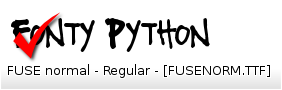
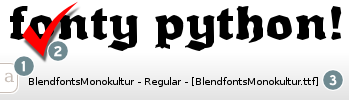
Help file update

diff --git a/fontypythonmodules/help/en/help.html b/fontypythonmodules/help/en/help.html
@@ -67,18 +67,25 @@
 			<li>
 			<h5>You have selected a Source (Pog or Folder) and a Target Pog</h5>
 			<IMG src="../common/fp_ticking.png" border="0">
-			<p>This will let you tick fonts and then store them in the target Pog.</p>
+			<p>This will let you tick fonts and then store them in the Target Pog.</p>
+			<h6>Areas of interest</h6>
+			<ol>
+				<li><strong>Character Map Button</strong> If you have <em>gucharmap</em> or <em>kfontview</em> installed, this button will show and when clicked will open one of those two apps to let you view the full character-set of the font. You can choose which character map viewer to use in the Settings.<p></p></li>
+				<li><strong>Tick Area</strong> Clicking anywhere on a font will either <em>tick</em> or <em>cross</em> it.<p>A <em>tick</em> means the font can be placed into a <em>Target Pog</em> &mdash; i.e. the one chosen in the right-hand panel.</p><p>A <em>cross</em> means the font will be removed from the <em>Source Pog (The one you are viewing at the moment)</em> &mdash; i.e. the Pog currently chosen on the left-panel.</p><p></p></li>
+				<li><strong>Font Info</strong> Here you will find the family and style and filename. When you use the filter to search, this is the text that is used.</li>
+			</ol>
 			<hr>
 			</li>
 			<li>
 			<h5>You have selected a Source Folder (or a Pog) <em>only</em></h5>
-			<p>This will not let you tick anything, you can only look.</p>
+			<IMG src="../common/fp_normal_item.png" border="0">
+			<p>This will not let you tick anything, you can only look. There is no visual difference.</p>
 			<hr>
 			</li>
 			<li>
 			<h5>You have selected a Source Pog <em>only</em></h5>
 			<IMG src="../common/fp_removing_a_font.png" border="0">
-			<p>This will let you cross-out fonts that you want to remove from the Pog you are looking at.</p>
+			<p>This will let you cross-out fonts that you want to remove from the Pog you are looking at now.</p>
 			<hr>
 			</li>
 			<li>
@@ -100,10 +107,9 @@
 			<td valign="top">
 				These icons indicate which are currently installed and which are not.
 				<ul>
-					<li>You cannot use an installed Pog as a target.</li>
-					<li>You choose a target Pog by clicking one (on the right).</li>
+					<li>You cannot use an installed Pog as a Target.</li>
+					<li>You choose a Target Pog by clicking one (on the right).</li>
 					<li>By holding <i>Ctrl</i> you can select many Pogs at once.</li>
-					<li>The "Clear Selection" button will clear your entire selection.</li>
 				</ul>
 			</td>
 		</tr>
@@ -130,7 +136,7 @@
 	<tr>
 		<TD valign="top"><IMG src="../common/fp8.png.cr.png" align="left" border="0"></td><td>
 	<h4>Pog actions.</h4>
-	<p>The buttons in this section all act upon the currently selected <strong>target</strong> Pog(s). You can variously delete, install, uninstall and zip the selected Pog(s). You can also create new Pogs from here.</p>
+	<p>The buttons in this section all act upon the currently selected <strong>Target</strong> Pog(s). You can variously delete, install, uninstall and zip the selected Pog(s). You can also create new Pogs from here.</p><p>The "Clear Selection" button will clear all the Pogs you have selected.</p>
 	</td></tr>
 	</table>
 	<p><A href="#TOP"><font size=-1>Go to top</font></A></p>

diff --git a/fontypythonmodules/gui_Right.py b/fontypythonmodules/gui_Right.py
@@ -16,7 +16,7 @@
 ##	along with Fonty Python.  If not, see <http://www.gnu.org/licenses/>.
 
 import wx
-#from wx.lib.buttons import ThemedGenBitmapTextButton
+
 ## Setup wxPython to access translations : enables the stock buttons.
 langid = wx.LANGUAGE_DEFAULT # Picks this up from $LANG
 mylocale = wx.Locale( langid )
@@ -40,8 +40,7 @@ class TargetPogChooser(wx.Panel):
 	def __init__(self, parent):
 		wx.Panel.__init__(self, parent, id = -1)	
 		
-		self.icon = wx.StaticBitmap\
-		(self, -1, wx.Bitmap(fpsys.mythingsdir + 'icon_target_16x16.png', wx.BITMAP_TYPE_PNG))
+		self.icon = wx.StaticBitmap( self, -1, wx.Bitmap(fpsys.mythingsdir + 'icon_target_16x16.png', wx.BITMAP_TYPE_PNG) )
 		self.textInfo = wx.StaticText(self, -1, _("Target Pogs"), style = wx.ALIGN_LEFT)
 		self.textInfo.SetFont(wx.Font(10, fpsys.DFAM, wx.NORMAL, wx.FONTWEIGHT_BOLD))
 		
@@ -59,10 +58,8 @@ class TargetPogChooser(wx.Panel):
 		## The "no pog" button
 		self.idnone = wx.NewId()
 		self.buttNoPog = wx.Button(self, label = _("Clear selection"), id = self.idnone)
-		#bmp=wx.Bitmap(fpsys.mythingsdir + 'font_segfault.png', wx.BITMAP_TYPE_PNG)
-		#self.buttNoPog = ThemedGenBitmapTextButton( self, -1, bmp, "XXXXXXXXXFind")
 
-		self.buttNoPog.SetToolTipString(_("Deselects any chosen pogs."))
+		self.buttNoPog.SetToolTipString(_("Deselects any chosen Pogs."))
 		## The buttons under the pog list
 		## Giving them all id numbers so my single handler can tell them apart.
 		self.idnew = wx.NewId()
@@ -91,10 +88,8 @@ class TargetPogChooser(wx.Panel):
 		self.sizer = wx.BoxSizer(wx.VERTICAL)		 
 		self.iconandtext = wx.BoxSizer(wx.HORIZONTAL)
 		self.iconandtext.Add(self.icon, 0, wx.TOP | wx.BOTTOM, border = 4)
-		#self.iconandtext.Add(self.textInfo, 1, wx.EXPAND | wx.TOP | wx.BOTTOM | wx.LEFT, border = 4)
 		self.iconandtext.Add(self.textInfo, 1, wx.EXPAND | wx.ALL, border = 4)
 		self.sizer.Add(self.iconandtext, 0, wx.EXPAND)
-		#self.sizer.Add(self.buttNoPog, 0, wx.EXPAND)	  
 		self.sizer.Add(self.pogTargetlist, 1, wx.EXPAND)
 		self.sizer.Add(self.buttNoPog, 0, wx.EXPAND | wx.BOTTOM | wx.TOP, border=5)	  
 		self.sizer.Add(self.buttInstall, 0, wx.EXPAND) 
@@ -121,7 +116,7 @@ class TargetPogChooser(wx.Panel):
 		if e.GetId() == self.idnew: 
 			## New Pog button pressed
 			dlg = wx.TextEntryDialog(
-					self, _("Enter a name for the new pog"),
+					self, _("Enter a name for the new Pog"),
 					_("New Pog"), _("Fonty Python"))
 			dlg.SetValue("")
 			if dlg.ShowModal() == wx.ID_OK:
@@ -297,7 +292,7 @@ class TargetPogChooser(wx.Panel):
 
 				wx.EndBusyCursor()	
 				extra=""
-				if bugs: extra=_("Some fonts were skipped, try purging the pog(s) involved.")
+				if bugs: extra=_("Some fonts were skipped, try purging the Pog(s) involved.")
 				ps.pub(print_to_status_bar,_("Zip file(s) have been created.%s") % extra )
 			else:
 				ps.pub(print_to_status_bar,_("Zip cancelled."))

diff --git a/fontypythonmodules/gui_Fitmap.py b/fontypythonmodules/gui_Fitmap.py
@@ -32,8 +32,9 @@ black=(0,0,0)
 white=(255,255,255)
 
 class OverOutSignal(object):
-	'''Signal an external function when a state has CHANGED from 
-	   True to False or vice-vera
+	'''
+	Signal an external function when a state has CHANGED from 
+	True to False or vice-vera
 	'''
 	def __init__( self, func_to_signal ):
 		self.announce = func_to_signal
@@ -157,7 +158,7 @@ class Fitmap(wx.lib.statbmp.GenStaticBitmap):
 		self.prepareBitmap()
 		sz = (self.bitmap.GetWidth(), self.bitmap.GetHeight())
 
-		## I don't know the y value of the button yet. Set in prepareBitmap.
+		## Now I can calc the y value of the button.
 		self.cmb_rect=wx.Rect(0,sz[1]-40,19,32)
 		self.height =  0
 
@@ -308,12 +309,12 @@ class Fitmap(wx.lib.statbmp.GenStaticBitmap):
 		if self.bitmap:
 			## Create a buffered paint DC.  It will create the real
 			## wx.PaintDC and then blit the bitmap to it when dc is
-			## deleted.  Since we don't need to draw anything else
-			## here that's all there is to it.
+			## deleted.  
 			dc = wx.BufferedPaintDC(self, self.bitmap, wx.BUFFER_VIRTUAL_AREA)
 			
 			if not self.can_have_button(): return
 
+			# Draw the charmap button
 			x,y = self.cmb_rect[0],self.cmb_rect[1]
 			if self.cmb_overout.state:
 				dc.DrawBitmap( self.CHARMAP_BUTTON_OVER, x, y, True )
@@ -407,7 +408,7 @@ class Fitmap(wx.lib.statbmp.GenStaticBitmap):
 		if self.fitem.badfont:
 			## We have a badstyle to help us differentiate these.
 			totheight = self.minHeight
-			#if self.fitem.inactive: totheight += 10 #Need more space
+			if self.fitem.inactive: totheight += 5 #Need more space
 			memDc=self.drawInfoOrError(  self.width, totheight )
 			
 		## It's *not* a badfont
@@ -472,19 +473,15 @@ class Fitmap(wx.lib.statbmp.GenStaticBitmap):
 					
 				## Goto next face, if any.
 				i += 1			
-				
-				## Set the charmap button's y value
-				#self.cmb_rect[1]=texty - 2	
 
 		## Record the calculated height
 		self.height = totheight
 
 
-
 		## Special message
 		if self.fitem.inactive:
-			mx,my=(27,self.height-20) if self.fitem.badfont else (27,self.height-26)
-			memDc.DrawBitmap( self.TICKSMALL, mx-20, my, True )
+			mx,my=(25,self.height-20) if self.fitem.badfont else (48,self.height-26)
+			memDc.DrawBitmap( self.TICKSMALL, mx-16, my-1, True )
 			memDc.SetTextForeground( black )
 			memDc.SetFont( wx.Font(11,fpsys.DFAM, style=wx.NORMAL, weight=wx.NORMAL))
 			memDc.DrawText( self.fitem.activeInactiveMsg, mx, my )
@@ -596,8 +593,6 @@ class Fitmap(wx.lib.statbmp.GenStaticBitmap):
 		tx,ty = (46,40) if isinfo else (5 ,40)
 		memDc.DrawText( textTup[1], tx, ty)
 
-		## Set the charmap button's y value
-		#self.cmb_rect[1]=ty - 4	
 
 		return memDc
 

diff --git a/fontypythonmodules/gui_Middle.py b/fontypythonmodules/gui_Middle.py
@@ -581,13 +581,9 @@ class MyLabel( wx.lib.stattext.GenStaticText ):
 		self.Refresh()
 
 	def DoGetBestSize(self):
-		dc = wx.ClientDC(self)
-		dc.SetFont(self.infoFont)
-		bestw,besth = dc.GetTextExtent(self.lab) or (100,100)
-		besth += 8
-		best = wx.Size(bestw,besth)
+		bestw,self.h = (100,26)
+		best = wx.Size(bestw,self.h) 
 		self.CacheBestSize(best)
-		self.h=besth
 		return best
 
 	def OnPaint(self, event):
@@ -607,6 +603,22 @@ class MyLabel( wx.lib.stattext.GenStaticText ):
 		dc.DrawText(self.lab, 27,5)
 
 		dc.DrawBitmap( self.VIEWICON, 6,5, True)
+
+
+
+	# Old code -- keep for ref....
+
+	def OLD_DoGetBestSize(self):
+		dc = wx.ClientDC(self)
+		dc.SetFont(self.infoFont)
+		# How big is the text?
+		bestw,besth = dc.GetTextExtent(self.lab) or (100,100)
+		besth += 8
+		best = wx.Size(bestw,besth) 
+		self.CacheBestSize(best)
+		self.h=besth
+		return best
+
 
 	def OnPaintFakeTab(self, event):
 		'''Old fake tab look. Keep for future ref.'''

diff --git a/fontypythonmodules/fontcontrol.py b/fontypythonmodules/fontcontrol.py
@@ -69,10 +69,6 @@ class FontItem( object ):
 		## What kind of bad to the bone am I?
 		## One of FILE_NOT_FOUND, PIL_IO_ERROR, PIL_UNICODE_ERROR, PIL_CANNOT_RENDER
 		self.badstyle = "" 
-	
-
-		self.total_number_of_glyphs = None
-
 
 		## We need the family name and style to be fetched
 		## because we have that filter thingy in the gui
@@ -196,9 +192,6 @@ class FontItem( object ):
 					self.badstyle = "PIL_SEGFAULT_ERROR"
 					break
 
-			# Still in while loop	
-			self.total_number_of_glyphs = font.font.glyphs # Hope this does not crash Fonty....
-
 		self.numFaces = i
 				
 	def generatePilFont( self, enc="unicode" ):
@@ -229,12 +222,6 @@ class FontItem( object ):
 					w = 1
 				pilheight = int(h)
 				pilwidth = int(w)
-
-				#gh=[]
-				#for c in text:
-				#	glyph = font.getmask(c)
-				#	glyph_width, glyph_height = glyph.size 
-				#	gh.append(glyph_height)
 
 				pilheight += 10
 
